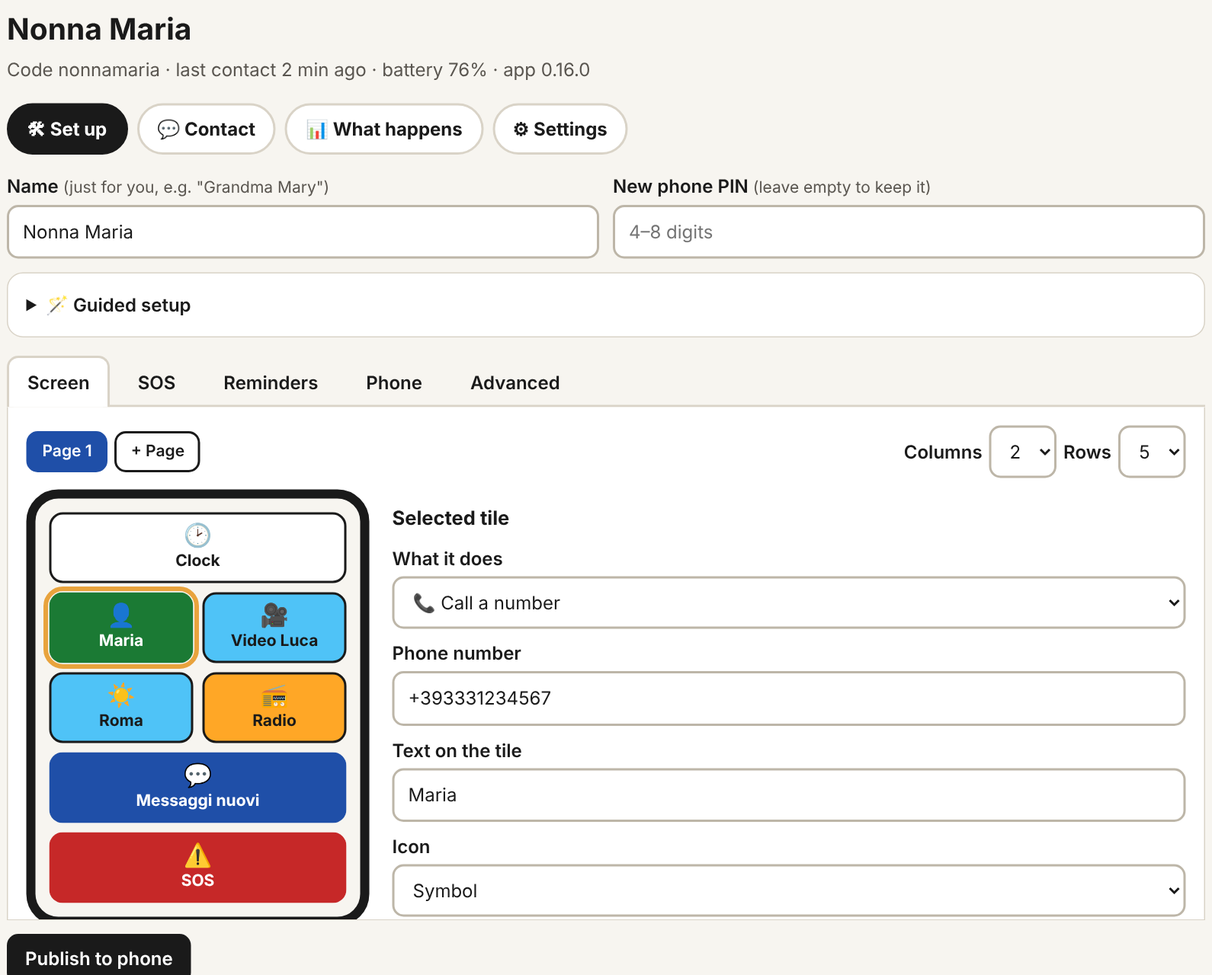
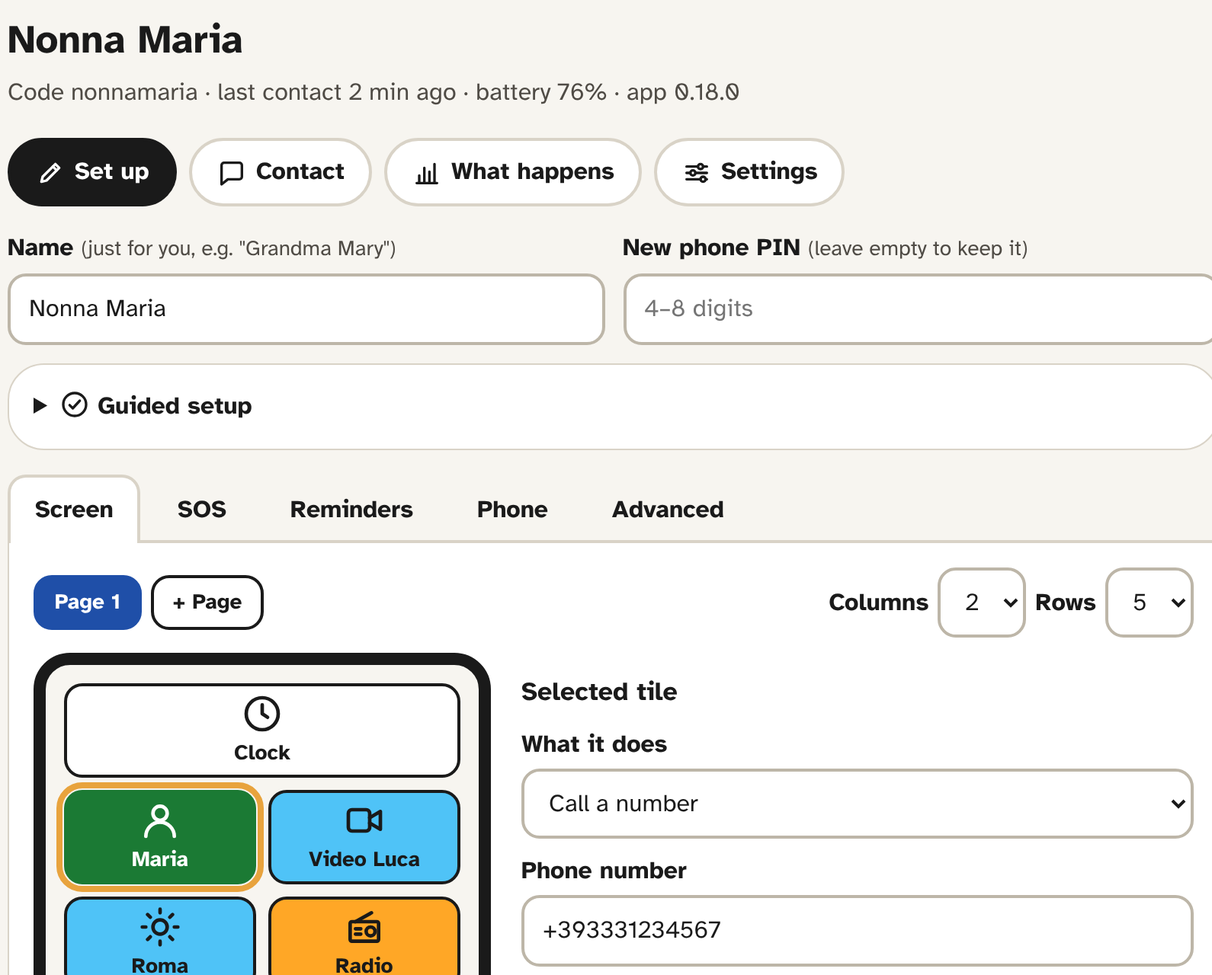
0.18.0 (wip): interlinea libera (testi grandi su due righe non si sovrappongono), simboli dell'interfaccia del portale, schermate README, novità
Claude-Session: https://claude.ai/code/session_012oE4QdTVCCNqW9X2NDMmYT

diff --git a/app/src/main/java/app/semplicephone/ui/Theme.kt b/app/src/main/java/app/semplicephone/ui/Theme.kt
@@ -77,15 +77,19 @@ val Atkinson = FontFamily(
     Font(R.font.atkinson_bold, FontWeight.Bold),
 )
 
+/**
+ * Atkinson ovunque e interlinea libera: con l'interlinea fissa di Material (24 sp) un testo ingrandito
+ * su due righe si sovrapponeva (es. il titolo di un promemoria lungo in francese).
+ */
 private fun Typography.withFamily(f: FontFamily) = Typography(
-    displayLarge = displayLarge.copy(fontFamily = f), displayMedium = displayMedium.copy(fontFamily = f),
-    displaySmall = displaySmall.copy(fontFamily = f), headlineLarge = headlineLarge.copy(fontFamily = f),
-    headlineMedium = headlineMedium.copy(fontFamily = f), headlineSmall = headlineSmall.copy(fontFamily = f),
-    titleLarge = titleLarge.copy(fontFamily = f), titleMedium = titleMedium.copy(fontFamily = f),
-    titleSmall = titleSmall.copy(fontFamily = f), bodyLarge = bodyLarge.copy(fontFamily = f),
-    bodyMedium = bodyMedium.copy(fontFamily = f), bodySmall = bodySmall.copy(fontFamily = f),
-    labelLarge = labelLarge.copy(fontFamily = f), labelMedium = labelMedium.copy(fontFamily = f),
-    labelSmall = labelSmall.copy(fontFamily = f),
+    displayLarge = displayLarge.copy(fontFamily = f, lineHeight = androidx.compose.ui.unit.TextUnit.Unspecified), displayMedium = displayMedium.copy(fontFamily = f, lineHeight = androidx.compose.ui.unit.TextUnit.Unspecified),
+    displaySmall = displaySmall.copy(fontFamily = f, lineHeight = androidx.compose.ui.unit.TextUnit.Unspecified), headlineLarge = headlineLarge.copy(fontFamily = f, lineHeight = androidx.compose.ui.unit.TextUnit.Unspecified),
+    headlineMedium = headlineMedium.copy(fontFamily = f, lineHeight = androidx.compose.ui.unit.TextUnit.Unspecified), headlineSmall = headlineSmall.copy(fontFamily = f, lineHeight = androidx.compose.ui.unit.TextUnit.Unspecified),
+    titleLarge = titleLarge.copy(fontFamily = f, lineHeight = androidx.compose.ui.unit.TextUnit.Unspecified), titleMedium = titleMedium.copy(fontFamily = f, lineHeight = androidx.compose.ui.unit.TextUnit.Unspecified),
+    titleSmall = titleSmall.copy(fontFamily = f, lineHeight = androidx.compose.ui.unit.TextUnit.Unspecified), bodyLarge = bodyLarge.copy(fontFamily = f, lineHeight = androidx.compose.ui.unit.TextUnit.Unspecified),
+    bodyMedium = bodyMedium.copy(fontFamily = f, lineHeight = androidx.compose.ui.unit.TextUnit.Unspecified), bodySmall = bodySmall.copy(fontFamily = f, lineHeight = androidx.compose.ui.unit.TextUnit.Unspecified),
+    labelLarge = labelLarge.copy(fontFamily = f, lineHeight = androidx.compose.ui.unit.TextUnit.Unspecified), labelMedium = labelMedium.copy(fontFamily = f, lineHeight = androidx.compose.ui.unit.TextUnit.Unspecified),
+    labelSmall = labelSmall.copy(fontFamily = f, lineHeight = androidx.compose.ui.unit.TextUnit.Unspecified),
 )
 
 @Composable

diff --git a/app/src/main/java/app/semplicephone/ui/Symbols.kt b/app/src/main/java/app/semplicephone/ui/Symbols.kt
@@ -86,6 +86,12 @@ object Symbols {
         "chevron" to listOf("M6 9l6 6 6-6"),
         "minus" to listOf("M5 12h14"),
         "plus" to listOf("M12 5v14M5 12h14"),
+        "bell" to listOf("M6 16v-5a6 6 0 0 1 12 0v5l2 2H4z", "M10 20.5a2 2 0 0 0 4 0", "M12 3v2"),
+        "settings" to listOf("M4 7h9M17 7h3", "M13 7a2 2 0 1 0 4 0a2 2 0 1 0-4 0", "M4 12h3M11 12h9", "M7 12a2 2 0 1 0 4 0a2 2 0 1 0-4 0", "M4 17h11M19 17h1", "M15 17a2 2 0 1 0 4 0a2 2 0 1 0-4 0"),
+        "chart" to listOf("M4 20h16", "M6 20v-6M10 20V8M14 20v-9M18 20V5"),
+        "history" to listOf("M4 12a8 8 0 1 0 2.3-5.6", "M4 4v4h4", "M12 8v4l3 2"),
+        "refresh" to listOf("M20 12a8 8 0 1 1-2.3-5.6", "M20 4v4h-4"),
+        "edit" to listOf("M5 19l1-4L16 5l3 3L9 18z", "M14 7l3 3"),
     )
 
     private val cache = mutableMapOf<String, ImageVector>()
@@ -93,7 +99,7 @@ object Symbols {
     val names: Set<String> get() = paths.keys
 
     /** Simboli dei pulsanti dell'app: non si scelgono per riquadri e promemoria. */
-    private val uiOnly = setOf("speaker", "mic", "folder", "close", "backspace", "play", "chevron", "minus", "plus", "check")
+    private val uiOnly = setOf("speaker", "mic", "folder", "close", "backspace", "play", "chevron", "minus", "plus", "check", "settings", "chart", "history", "refresh", "edit")
 
     /** Simboli da offrire nella scelta (riquadri, promemoria). */
     val pickable: List<String> get() = paths.keys.filter { it !in uiOnly }

diff --git a/app/src/main/java/app/semplicephone/ui/Big.kt b/app/src/main/java/app/semplicephone/ui/Big.kt
@@ -42,6 +42,7 @@ import androidx.compose.ui.text.style.TextAlign
 import androidx.compose.ui.unit.Dp
 import androidx.compose.ui.unit.TextUnit
 import androidx.compose.ui.unit.dp
+import androidx.compose.ui.unit.em
 import androidx.compose.ui.unit.sp
 import androidx.compose.ui.window.Dialog
 import androidx.compose.ui.window.DialogProperties
@@ -67,7 +68,7 @@ fun FitText(
 ) {
     BasicText(
         text, modifier,
-        style = TextStyle(color = color, fontFamily = Atkinson, fontWeight = if (bold) FontWeight.Bold else FontWeight.Normal, textAlign = align, lineHeight = max * 1.15f),
+        style = TextStyle(color = color, fontFamily = Atkinson, fontWeight = if (bold) FontWeight.Bold else FontWeight.Normal, textAlign = align, lineHeight = 1.15.em),
         maxLines = maxLines,
         autoSize = TextAutoSize.StepBased(minFontSize = min, maxFontSize = max, stepSize = 1.sp),
     )

diff --git a/app/src/main/java/app/semplicephone/ui/SymbolDrawables.kt b/app/src/main/java/app/semplicephone/ui/SymbolDrawables.kt
@@ -71,6 +71,12 @@ object SymbolDrawables {
         "chevron" to R.drawable.sym_chevron,
         "minus" to R.drawable.sym_minus,
         "plus" to R.drawable.sym_plus,
+        "bell" to R.drawable.sym_bell,
+        "settings" to R.drawable.sym_settings,
+        "chart" to R.drawable.sym_chart,
+        "history" to R.drawable.sym_history,
+        "refresh" to R.drawable.sym_refresh,
+        "edit" to R.drawable.sym_edit,
     )
 
     fun get(name: String): Int = ids[name] ?: R.drawable.sym_grid

diff --git a/tools/remote-server/index.php b/tools/remote-server/index.php
@@ -148,6 +148,23 @@ function t(string $k, ...$a): string {
     return $s;
 }
 function th(string $k, ...$a): string { return h(t($k, ...$a)); }
+/*SYM-BEGIN*/ const SYM_UI_JSON = '["speaker","mic","folder","close","backspace","play","chevron","minus","plus","check","settings","chart","history","refresh","edit"]'; const SYM_JSON = '{"phone":["M5 4h4l2 5-2.5 1.5a11 11 0 0 0 5 5L15 13l5 2v4a2 2 0 0 1-2 2A16 16 0 0 1 3 6a2 2 0 0 1 2-2"],"message":["M6 4h12a2 2 0 0 1 2 2v9a2 2 0 0 1-2 2H9l-5 4V6a2 2 0 0 1 2-2z"],"video":["M5 6h8a2 2 0 0 1 2 2v8a2 2 0 0 1-2 2H5a2 2 0 0 1-2-2V8a2 2 0 0 1 2-2z","M15 10.5l6-3.5v10l-6-3.5"],"photo":["M5 4h14a2 2 0 0 1 2 2v12a2 2 0 0 1-2 2H5a2 2 0 0 1-2-2V6a2 2 0 0 1 2-2z","M7 10a2 2 0 1 0 4 0a2 2 0 1 0-4 0","M21 16l-5-5-9 9"],"camera":["M4 8h3l2-3h6l2 3h3a1 1 0 0 1 1 1v9a1 1 0 0 1-1 1H4a1 1 0 0 1-1-1V9a1 1 0 0 1 1-1z","M8.5 13a3.5 3.5 0 1 0 7 0a3.5 3.5 0 1 0-7 0"],"weather":["M8 12a4 4 0 1 0 8 0a4 4 0 1 0-8 0","M12 2v2M12 20v2M2 12h2M20 12h2M5 5l1.5 1.5M17.5 17.5L19 19M5 19l1.5-1.5M17.5 6.5L19 5"],"web":["M3 12a9 9 0 1 0 18 0a9 9 0 1 0-18 0","M3 12h18","M12 3a14 14 0 0 1 0 18a14 14 0 0 1 0-18"],"person":["M8 8a4 4 0 1 0 8 0a4 4 0 1 0-8 0","M4 21a8 8 0 0 1 16 0"],"alert":["M12 3.5l9 16.5H3z","M12 10v4.5","M12 17.5v.5"],"pill":["M5.1 12.9l7.8-7.8a4.2 4.2 0 0 1 6 6l-7.8 7.8a4.2 4.2 0 0 1-6-6z","M9 9l6 6"],"home":["M3 11l9-7 9 7","M5 10v10h14V10","M10 20v-6h4v6"],"heart":["M12 20s-8-4.9-8-11a4.5 4.5 0 0 1 8-2.8A4.5 4.5 0 0 1 20 9c0 6.1-8 11-8 11z"],"music":["M9 18V6l10-2v12","M5 18a2 2 0 1 0 4 0a2 2 0 1 0-4 0","M15 16a2 2 0 1 0 4 0a2 2 0 1 0-4 0"],"radio":["M5 9h14a1 1 0 0 1 1 1v9a1 1 0 0 1-1 1H5a1 1 0 0 1-1-1v-9a1 1 0 0 1 1-1","M7 9L16 4","M13 14.5a2.5 2.5 0 1 0 5 0a2.5 2.5 0 1 0-5 0","M7 13h3M7 16h3"],"grid":["M4 5a1 1 0 0 1 1-1h4a1 1 0 0 1 1 1v4a1 1 0 0 1-1 1H5a1 1 0 0 1-1-1z","M14 5a1 1 0 0 1 1-1h4a1 1 0 0 1 1 1v4a1 1 0 0 1-1 1h-4a1 1 0 0 1-1-1z","M4 15a1 1 0 0 1 1-1h4a1 1 0 0 1 1 1v4a1 1 0 0 1-1 1H5a1 1 0 0 1-1-1z","M14 15a1 1 0 0 1 1-1h4a1 1 0 0 1 1 1v4a1 1 0 0 1-1 1h-4a1 1 0 0 1-1-1z"],"shower":["M5.5 21V7a3 3 0 0 1 3-3h3a3 3 0 0 1 3 3","M10.5 11a4 4 0 0 1 8 0z","M12 14.5v1.5M17 14.5v1.5M14.5 14.5v1.5M13 19v1M16 19v1"],"cart":["M3 4h2l2.5 11h10L20 7H6","M9 19.5a1 1 0 1 0 2 0a1 1 0 1 0-2 0","M16 19.5a1 1 0 1 0 2 0a1 1 0 1 0-2 0"],"doctor":["M5 4v6a4 4 0 0 0 8 0V4","M4 4h2M12 4h2","M9 14v2a4 4 0 0 0 8 0v-1","M15 13a2 2 0 1 0 4 0a2 2 0 1 0-4 0"],"cards":["M5 9a2 2 0 0 1 2-2h6a2 2 0 0 1 2 2v10a2 2 0 0 1-2 2H7a2 2 0 0 1-2-2z","M9 7V5a2 2 0 0 1 2-2h6a2 2 0 0 1 2 2v10a2 2 0 0 1-2 2h-2"],"calendar":["M6 5h12a2 2 0 0 1 2 2v12a2 2 0 0 1-2 2H6a2 2 0 0 1-2-2V7a2 2 0 0 1 2-2z","M4 10h16","M8 3v4M16 3v4","M8 14h.01M12 14h.01M16 14h.01M8 17.5h.01M12 17.5h.01"],"walk":["M11.25 4.5a1.75 1.75 0 1 0 3.5 0a1.75 1.75 0 1 0-3.5 0","M12.5 8.5L11 14","M11 14l-2.5 3.5L7 21","M11 14l3 3 .5 4","M12.5 8.5L9.5 10l-1 3","M12.5 8.5l2 3 2.5 1"],"food":["M4.5 3v5a3.5 3.5 0 0 0 7 0V3","M8 3v18","M19.5 14V3a4 4 0 0 0-4 4v5a2 2 0 0 0 2 2h2z","M19.5 14v7"],"bed":["M3 5v14","M3 15h18v4","M21 15v-3a3 3 0 0 0-3-3h-7v6","M5.5 11.5a1.5 1.5 0 1 0 3 0a1.5 1.5 0 1 0-3 0"],"water":["M6 4h12l-1.5 16h-9z","M7 9h10"],"cloud":["M7 18h10a4 4 0 0 0 0-8a5.5 5.5 0 0 0-10.6 1.5A3.3 3.3 0 0 0 7 18z"],"rain":["M7 14h10a4 4 0 0 0 0-8a5.5 5.5 0 0 0-10.6 1.5A3.3 3.3 0 0 0 7 14z","M8 17l-1 3M12 17l-1 3M16 17l-1 3"],"snow":["M7 14h10a4 4 0 0 0 0-8a5.5 5.5 0 0 0-10.6 1.5A3.3 3.3 0 0 0 7 14z","M8 18h.01M12 18h.01M16 18h.01M10 21h.01M14 21h.01"],"storm":["M7 14h10a4 4 0 0 0 0-8a5.5 5.5 0 0 0-10.6 1.5A3.3 3.3 0 0 0 7 14z","M12 14l-2 4h4l-2 4"],"fog":["M4 8h16M6 12h12M4 16h16"],"missed":["M5 4h4l2 5-2.5 1.5a11 11 0 0 0 5 5L15 13l5 2v4a2 2 0 0 1-2 2A16 16 0 0 1 3 6a2 2 0 0 1 2-2","M16 3l5 5M21 3l-5 5"],"battery":["M4.5 6h12a2 2 0 0 1 2 2v8a2 2 0 0 1-2 2h-12a2 2 0 0 1-2-2V8a2 2 0 0 1 2-2z","M21.5 10v4","M12 9.5L9.5 12H13l-2.5 3"],"search":["M4 10a6 6 0 1 0 12 0a6 6 0 1 0-12 0","M14.5 14.5L20 20"],"torch":["M7 3h10v3l-3 4v11h-4V10L7 6z","M7 6h10","M12 13v2"],"magnifier":["M3 10a7 7 0 1 0 14 0a7 7 0 1 0-14 0","M15 15l6 6","M10 7v6M7 10h6"],"pin":["M12 21s-7-6.2-7-11a7 7 0 0 1 14 0c0 4.8-7 11-7 11z","M9.5 10a2.5 2.5 0 1 0 5 0a2.5 2.5 0 1 0-5 0"],"news":["M4 5h13v14H6a2 2 0 0 1-2-2z","M17 9h3v8a2 2 0 0 1-2 2","M7 8h7M7 11h7M7 14h4"],"callme":["M5 4h4l2 5-2.5 1.5a11 11 0 0 0 5 5L15 13l5 2v4a2 2 0 0 1-2 2A16 16 0 0 1 3 6a2 2 0 0 1 2-2","M21 3l-6 6","M15 4v5h5"],"check":["M3 12a9 9 0 1 0 18 0a9 9 0 1 0-18 0","M8 12.5l2.5 2.5 5.5-6"],"clock":["M3 12a9 9 0 1 0 18 0a9 9 0 1 0-18 0","M12 7v5l3 2"],"car":["M6.5 10l1.5-4h8l1.5 4","M5 10h14a2 2 0 0 1 2 2v4a1 1 0 0 1-1 1H4a1 1 0 0 1-1-1v-4a2 2 0 0 1 2-2z","M7 13.5h.01M17 13.5h.01","M5.5 17v2M18.5 17v2"],"bus":["M6 3h12a2 2 0 0 1 2 2v12H4V5a2 2 0 0 1 2-2z","M4 11h16","M7 17v3M17 17v3","M8 14h.01M16 14h.01"],"key":["M4 16a4 4 0 1 0 8 0a4 4 0 1 0-8 0","M10.8 13.2L20 4","M17 7l2.5 2.5M14.5 9.5l2 2"],"glasses":["M3 13.5a3.5 3.5 0 1 0 7 0a3.5 3.5 0 1 0-7 0","M14 13.5a3.5 3.5 0 1 0 7 0a3.5 3.5 0 1 0-7 0","M10 13a2 2 0 0 1 4 0","M3.5 12L5 6.5M20.5 12L19 6.5"],"paw":["M8.5 16.5c0-2.5 1.6-4.5 3.5-4.5s3.5 2 3.5 4.5c0 2-1.6 3-3.5 3s-3.5-1-3.5-3z","M4.5 11a1.5 1.5 0 1 0 3 0a1.5 1.5 0 1 0-3 0","M8 6.5a1.5 1.5 0 1 0 3 0a1.5 1.5 0 1 0-3 0","M13 6.5a1.5 1.5 0 1 0 3 0a1.5 1.5 0 1 0-3 0","M16.5 11a1.5 1.5 0 1 0 3 0a1.5 1.5 0 1 0-3 0"],"plant":["M7 14h10l-1.5 7h-7z","M12 14V8","M12 10C9 10 7 8 7 5c3 0 5 2 5 5z","M12 8c0-3 2-5 5-5 0 3-2 5-5 5z"],"tooth":["M7 3C4.5 3 3 5 3 7.5c0 3 1.5 4.5 2 7l1 5c.3 1.3 2 1.3 2.3 0l1.2-4.5c.3-1 2.7-1 3 0l1.2 4.5c.3 1.3 2 1.3 2.3 0l1-5c.5-2.5 2-4 2-7C21 5 19.5 3 17 3c-2 0-3 1-5 1S9 3 7 3z"],"cake":["M5 21v-7a1 1 0 0 1 1-1h12a1 1 0 0 1 1 1v7","M3 21h18","M12 13V9","M12 6.5c-.8-.8-.8-2 0-3 .8 1 .8 2.2 0 3z","M5 16.5c1.2 0 1.2 1 2.3 1s1.2-1 2.3-1 1.2 1 2.4 1 1.2-1 2.3-1 1.2 1 2.3 1 1.2-1 2.4-1"],"trash":["M4 7h16","M9 7V4h6v3","M6 7l1 13h10l1-13","M10 11v6M14 11v6"],"wallet":["M4 7a2 2 0 0 1 2-2h11v4","M4 7v11a2 2 0 0 0 2 2h14V9H6a2 2 0 0 1-2-2z","M16 14.5h.01"],"book":["M12 6.5C10 5 7 4.5 3 5v14c4-.5 7 0 9 1.5 2-1.5 5-2 9-1.5V5c-4-.5-7 0-9 1.5z","M12 6.5v14"],"tv":["M5 7h14a2 2 0 0 1 2 2v9a2 2 0 0 1-2 2H5a2 2 0 0 1-2-2V9a2 2 0 0 1 2-2z","M8 3l4 4 4-4"],"mail":["M5 5h14a2 2 0 0 1 2 2v10a2 2 0 0 1-2 2H5a2 2 0 0 1-2-2V7a2 2 0 0 1 2-2z","M3.5 7l8.5 6 8.5-6"],"thermometer":["M10 14.5V5a2 2 0 0 1 4 0v9.5a4 4 0 1 1-4 0z","M12 9v8"],"syringe":["M16 5l3 3-9 9-3-3z","M14 3l7 7","M8.5 15.5L3 21","M12.5 9.5l2 2"],"family":["M5 8.5a3 3 0 1 0 6 0a3 3 0 1 0-6 0","M2.5 20a5.5 5.5 0 0 1 11 0","M14 9.5a2.5 2.5 0 1 0 5 0a2.5 2.5 0 1 0-5 0","M15 14.7a4.5 4.5 0 0 1 6.5 4v1.3"],"moon":["M20 14.5A8 8 0 1 1 9.5 4a6.5 6.5 0 0 0 10.5 10.5z"],"speaker":["M4 9h3l5-4v14l-5-4H4z","M15.5 9a4 4 0 0 1 0 6","M18 6.5a7.5 7.5 0 0 1 0 11"],"mic":["M9 6a3 3 0 0 1 6 0v5a3 3 0 0 1-6 0z","M5.5 11a6.5 6.5 0 0 0 13 0","M12 17.5V21","M9 21h6"],"folder":["M3 7a2 2 0 0 1 2-2h4l2 2h8a2 2 0 0 1 2 2v8a2 2 0 0 1-2 2H5a2 2 0 0 1-2-2z"],"close":["M6 6l12 12M18 6L6 18"],"backspace":["M8 5h11a2 2 0 0 1 2 2v10a2 2 0 0 1-2 2H8l-6-7z","M11 9l6 6M17 9l-6 6"],"play":["M6 4.5v15L19 12z"],"chevron":["M6 9l6 6 6-6"],"minus":["M5 12h14"],"plus":["M12 5v14M5 12h14"],"bell":["M6 16v-5a6 6 0 0 1 12 0v5l2 2H4z","M10 20.5a2 2 0 0 0 4 0","M12 3v2"],"settings":["M4 7h9M17 7h3","M13 7a2 2 0 1 0 4 0a2 2 0 1 0-4 0","M4 12h3M11 12h9","M7 12a2 2 0 1 0 4 0a2 2 0 1 0-4 0","M4 17h11M19 17h1","M15 17a2 2 0 1 0 4 0a2 2 0 1 0-4 0"],"chart":["M4 20h16","M6 20v-6M10 20V8M14 20v-9M18 20V5"],"history":["M4 12a8 8 0 1 0 2.3-5.6","M4 4v4h4","M12 8v4l3 2"],"refresh":["M20 12a8 8 0 1 1-2.3-5.6","M20 4v4h-4"],"edit":["M5 19l1-4L16 5l3 3L9 18z","M14 7l3 3"]}'; /*SYM-END*/
+/** Simbolo dell'app come SVG in linea (stessi tracciati del telefono, da tools/symbols/gen.py). */
+function sym_svg(string $name, string $cls = 'sym'): string {
+    static $all = null;
+    $all ??= json_decode(SYM_JSON, true) ?: [];
+    $paths = $all[$name] ?? $all['grid'] ?? [];
+    return '<svg class="' . h($cls) . '" viewBox="0 0 24 24" aria-hidden="true">' . implode('', array_map(fn($d) => '<path d="' . h($d) . '"/>', $paths)) . '</svg>';
+}
+/** Simbolo di ogni tipo di avviso, per le pagine del portale (email e Telegram restano con le emoji). */
+const EV_SYM = ['sos' => 'alert', 'fall' => 'alert', 'reminder_missed' => 'pill', 'pills_low' => 'pill', 'battery' => 'battery', 'offline' => 'web', 'online' => 'check',
+    'test' => 'bell', 'call_blocked' => 'phone', 'call_out_blocked' => 'phone', 'long_call' => 'phone', 'sim_changed' => 'phone', 'location' => 'pin', 'zone_left' => 'pin',
+    'zone_back' => 'home', 'ring_done' => 'bell', 'message_read' => 'message', 'remote_app' => 'alert', 'scam_message' => 'alert', 'inactive' => 'moon',
+    'active_again' => 'check', 'heat' => 'thermometer', 'call_me' => 'callme', 'voice_reply' => 'mic'];
+/** Toglie le emoji in testa a un titolo (per le pagine, dove c'è il simbolo). */
+function no_emoji(string $s): string { return preg_replace('/^[\p{So}\p{Sk}\x{FE0F}\x{200D}\x{2190}-\x{21FF}\x{2300}-\x{23FF}\s]+/u', '', $s) ?? $s; }
+/** Titolo dell'avviso per le pagine: simbolo + testo senza emoji. */
+function ev_title_html(string $type): string { return sym_svg(EV_SYM[$type] ?? 'bell') . ' ' . h(no_emoji(ev_title($type))); }
 function ev_title(string $type): string { return in_array($type, EVENT_TYPES, true) ? t('ev_' . $type) : $type; }
 /**
  * Testo di un avviso nella lingua del portale. I telefoni dalla 0.17.2 mandano «key» (nome della
@@ -1279,14 +1296,14 @@ details summary{cursor:pointer;font-weight:600}
 
   <?php if ($loaded): ?><div class="msg warn"><?= h($loaded) ?></div><?php endif; ?>
   <?php $lastV = history($edit)[0] ?? null; $lastH = $lastV ? read_json(DATA . "/history/$edit/$lastV.json", []) : [];
-    if (!$loaded && ($lastH['source'] ?? '') === 'phone'): ?><p class="hint">📱 <?= th('phone_changed_info', date('d/m/Y H:i', (int)($lastH['at'] ?? 0)), implode('; ', (array)($lastH['changes'] ?? []))) ?></p><?php endif; ?>
+    if (!$loaded && ($lastH['source'] ?? '') === 'phone'): ?><p class="hint"><?= sym_svg('phone') ?> <?= th('phone_changed_info', date('d/m/Y H:i', (int)($lastH['at'] ?? 0)), implode('; ', (array)($lastH['changes'] ?? []))) ?></p><?php endif; ?>
   <?php if (isset($meta['badgesAccess']) && !$meta['badgesAccess']): ?><div class="msg warn"><?= th('no_notif_access') ?></div><?php endif; ?>
   <?php foreach (access_warnings($meta) as $w): ?><div class="msg warn"><?= h($w) ?></div><?php endforeach; ?>
   <div class="pagetabs">
-    <button type="button" data-ptab="p-config">🛠 <?= th('ptab_config') ?></button>
-    <button type="button" data-ptab="p-talk">💬 <?= th('ptab_talk') ?></button>
-    <button type="button" data-ptab="p-status">📊 <?= th('ptab_status') ?></button>
-    <button type="button" data-ptab="p-settings">⚙ <?= th('ptab_settings') ?></button>
+    <button type="button" data-ptab="p-config"><?= sym_svg('edit') ?> <?= th('ptab_config') ?></button>
+    <button type="button" data-ptab="p-talk"><?= sym_svg('message') ?> <?= th('ptab_talk') ?></button>
+    <button type="button" data-ptab="p-status"><?= sym_svg('chart') ?> <?= th('ptab_status') ?></button>
+    <button type="button" data-ptab="p-settings"><?= sym_svg('settings') ?> <?= th('ptab_settings') ?></button>
   </div>
   <section class="pagepanel" id="p-config">
   <?php $lastLocPre = null; foreach ($urgent as $ev) if (isset($ev['lat'], $ev['lon']) && $ev['lat'] !== null) { $lastLocPre = ['lat' => (float)$ev['lat'], 'lon' => (float)$ev['lon']]; break; } ?>
@@ -1297,7 +1314,7 @@ details summary{cursor:pointer;font-weight:600}
       <div><label for="pin"><?= th('new_pin') ?> <span class="hint"><?= th('new_pin_hint') ?></span></label><input id="pin" type="text" name="pin" inputmode="numeric" pattern="\d{4,8}" autocomplete="off" placeholder="<?= th('pin_placeholder') ?>"></div>
     </div>
 
-    <details class="card" id="wizard" <?= history($edit) ? '' : 'open' ?>><summary><?= th('wiz_title') ?></summary><div id="wizbody"></div></details>
+    <details class="card" id="wizard" <?= history($edit) ? '' : 'open' ?>><summary><?= sym_svg('check') ?> <?= th('wiz_title') ?></summary><div id="wizbody"></div></details>
     <div class="msg warn" id="warns" hidden></div>
     <div class="tabs" role="tablist">
       <button type="button" role="tab" aria-selected="true" data-tab="t-screen"><?= th('tab_screen') ?></button>
@@ -1337,7 +1354,7 @@ details summary{cursor:pointer;font-weight:600}
   ?>
   </section>
   <section class="pagepanel" id="p-talk" hidden>
-  <h2 id="where">📍 <?= th('locate_title') ?></h2>
+  <h2 id="where"><?= sym_svg('pin') ?> <?= th('locate_title') ?></h2>
   <div class="card">
     <?php if ($lastLoc): $la = $lastLoc['lat'] ?? null; $lo = $lastLoc['lon'] ?? null; ?>
       <p><b><?= th('locate_last', date('d/m H:i', (int)(($lastLoc['at'] ?? 0) / 1000))) ?></b>
@@ -1352,7 +1369,7 @@ details summary{cursor:pointer;font-weight:600}
 
   <?php $fm = $meta['message'] ?? null; $ringing = time() - (int)($meta['ringRequest'] ?? 0) < 3600;
     $oldApp = !empty($meta['appVersion']) && version_compare((string)$meta['appVersion'], APP_FEATURES_0130, '<'); ?>
-  <h2 id="family"><?= th('family_title') ?></h2>
+  <h2 id="family"><?= sym_svg('message') ?> <?= th('family_title') ?></h2>
   <div class="card">
     <?php if ($oldApp): ?><p class="msg warn"><?= th('family_old_app', $meta['appVersion']) ?></p><?php endif; ?>
     <form method="post" enctype="multipart/form-data" id="msgform" data-vmax="<?= video_max() ?>"><input type="hidden" name="csrf" value="<?= h($csrf) ?>"><input type="hidden" name="act" value="message"><input type="hidden" name="id" value="<?= h($edit) ?>">
@@ -1414,15 +1431,15 @@ details summary{cursor:pointer;font-weight:600}
       });
     })();
     </script>
-    <?php if ($fm): ?><p class="hint"><?= !empty($fm['video']) ? '🎬 ' : '' ?><?= th('message_last', date('d/m H:i', (int)$fm['at']), $fm['text']) ?> —
+    <?php if ($fm): ?><p class="hint"><?= !empty($fm['video']) ? sym_svg('video') . ' ' : '' ?><?= th('message_last', date('d/m H:i', (int)$fm['at']), $fm['text']) ?> —
       <b><?= !empty($fm['readAt']) ? th('message_read_at', date('d/m H:i', (int)$fm['readAt'])) : th('message_waiting') ?></b></p><?php endif; ?>
     <hr style="border:0;border-top:1px solid #ddd;margin:16px 0">
     <form method="post"><input type="hidden" name="csrf" value="<?= h($csrf) ?>"><input type="hidden" name="act" value="ring"><input type="hidden" name="id" value="<?= h($edit) ?>">
-      <button class="sec"><?= th('ring_button') ?></button></form>
+      <button class="sec"><?= sym_svg('bell') ?> <?= th('ring_button') ?></button></form>
     <?php if ($ringing): ?><p class="msg warn"><?= th('ring_pending') ?></p><?php endif; ?>
     <p class="hint"><?= th('family_hint') ?></p>
     <?php $voices = array_reverse(glob(DATA . "/voice/$edit/*.m4a") ?: []); if ($voices): ?>
-      <h3 style="margin-top:18px">🎤 <?= th('voice_replies') ?></h3>
+      <h3 style="margin-top:18px"><?= sym_svg('mic') ?> <?= th('voice_replies') ?></h3>
       <?php foreach (array_slice($voices, 0, 10) as $vf): $vn = basename($vf); ?>
         <div style="display:flex;gap:12px;align-items:center;flex-wrap:wrap;margin:8px 0">
           <span class="hint" style="min-width:110px"><?= h(date('d/m H:i', (int)$vn)) ?></span>
@@ -1434,19 +1451,19 @@ details summary{cursor:pointer;font-weight:600}
 
   </section>
   <section class="pagepanel" id="p-status" hidden>
-  <h2>📊 <?= th('weekly_card') ?></h2>
+  <h2><?= sym_svg('chart') ?> <?= th('weekly_card') ?></h2>
   <div class="card"><ul style="margin:0;padding-left:20px"><?php foreach (weekly_lines($edit) as $l): ?><li><?= h($l) ?></li><?php endforeach; ?></ul></div>
 
-  <h2>🔔 <?= th('alerts_from_phone') ?></h2>
+  <h2><?= sym_svg('bell') ?> <?= th('alerts_from_phone') ?></h2>
   <div class="card">
   <?php if (!$urgent): ?><p class="hint"><?= th('no_alerts_received') ?></p><?php else: ?>
     <table><tr><th><?= th('col_when') ?></th><th><?= th('col_what') ?></th></tr>
-    <?php foreach ($urgent as $ev): ?><tr><td><?= h(date('d/m H:i', (int)(($ev['at'] ?? 0) / 1000))) ?></td><td><b><?= h(ev_title((string)($ev['type'] ?? ''))) ?></b><br><span class="hint"><?= nl2br(h(ev_text($ev))) ?></span></td></tr><?php endforeach; ?>
+    <?php foreach ($urgent as $ev): ?><tr><td><?= h(date('d/m H:i', (int)(($ev['at'] ?? 0) / 1000))) ?></td><td><b><?= ev_title_html((string)($ev['type'] ?? '')) ?></b><br><span class="hint"><?= nl2br(h(ev_text($ev))) ?></span></td></tr><?php endforeach; ?>
     </table>
   <?php endif; ?>
   </div>
 
-  <h2>💊 <?= th('rem_what_happened') ?></h2>
+  <h2><?= sym_svg('pill') ?> <?= th('rem_what_happened') ?></h2>
   <div class="card">
   <?php if (!$events): ?><p class="hint"><?= th('no_news') ?></p><?php else: ?>
     <table><tr><th><?= th('col_when') ?></th><th><?= th('col_reminder') ?></th><th><?= th('col_result') ?></th></tr>
@@ -1458,7 +1475,7 @@ details summary{cursor:pointer;font-weight:600}
 
   </section>
   <section class="pagepanel" id="p-settings" hidden>
-  <h2>🕘 <?= th('prev_versions') ?></h2>
+  <h2><?= sym_svg('history') ?> <?= th('prev_versions') ?></h2>
   <div class="card">
   <?php if (!$versions): ?><p class="hint"><?= th('no_publications') ?></p><?php else: ?>
     <table><tr><th><?= th('col_published') ?></th><th></th></tr>
@@ -1477,7 +1494,7 @@ details summary{cursor:pointer;font-weight:600}
   <?php endif; ?>
   </div>
 
-  <h2>📱 <?= th('installed_apps') ?></h2>
+  <h2><?= sym_svg('grid') ?> <?= th('installed_apps') ?></h2>
   <div class="card">
   <?php if (!$devApps): ?>
     <p class="hint"><?= th('apps_not_received') ?></p>
@@ -1490,7 +1507,7 @@ details summary{cursor:pointer;font-weight:600}
   <?php endif; ?>
   </div>
 
-  <details class="card" id="calendar" <?= !empty($meta['calendarUrl']) ? 'open' : '' ?>><summary><?= th('cal_title') ?></summary>
+  <details class="card" id="calendar" <?= !empty($meta['calendarUrl']) ? 'open' : '' ?>><summary><?= sym_svg('calendar') ?> <?= th('cal_title') ?></summary>
     <p class="hint"><?= th('cal_hint') ?></p>
     <form method="post"><input type="hidden" name="csrf" value="<?= h($csrf) ?>"><input type="hidden" name="act" value="calendar"><input type="hidden" name="id" value="<?= h($edit) ?>">
       <label for="calurl"><?= th('cal_url') ?></label><input id="calurl" type="url" name="calendarUrl" value="<?= h($meta['calendarUrl'] ?? '') ?>" placeholder="https://calendar.google.com/calendar/ical/…/basic.ics">
@@ -1500,7 +1517,7 @@ details summary{cursor:pointer;font-weight:600}
       <p><button><?= th('cal_save') ?></button></p></form>
     <?php if (!empty($meta['calendarUrl'])): ?><p class="hint"><?= !empty($meta['calendarError']) ? '<span class="pill bad">' . th('cal_error') . '</span>' : th('cal_status', (int)($meta['calendarCount'] ?? 0), ago(isset($meta['calendarAt']) ? (int)$meta['calendarAt'] : null)) ?></p><?php endif; ?>
   </details>
-  <details class="card" id="alertlang"><summary>🌐 <?= th('alert_lang_title') ?></summary>
+  <details class="card" id="alertlang"><summary><?= sym_svg('web') ?> <?= th('alert_lang_title') ?></summary>
     <p class="hint"><?= th('alert_lang_hint') ?></p>
     <form method="post"><input type="hidden" name="csrf" value="<?= h($csrf) ?>"><input type="hidden" name="act" value="alertlang"><input type="hidden" name="id" value="<?= h($edit) ?>">
       <?php $al = (string)($meta['alertLang'] ?? ''); $pl = (string)($meta['lang'] ?? ''); ?>
@@ -1509,12 +1526,12 @@ details summary{cursor:pointer;font-weight:600}
         <?php foreach (langs() as $l): ?><option value="<?= $l ?>" <?= $al === $l ? 'selected' : '' ?>><?= h(lang_table($l)['lang_name'] ?? $l) ?></option><?php endforeach; ?></select></div></div>
       <p><button><?= th('alert_lang_save') ?></button></p></form>
   </details>
-  <details class="card"><summary>🔄 <?= th('reinstalled') ?></summary>
+  <details class="card"><summary><?= sym_svg('refresh') ?> <?= th('reinstalled') ?></summary>
     <p><?= th('reinstalled_text') ?></p>
     <form method="post"><input type="hidden" name="csrf" value="<?= h($csrf) ?>"><input type="hidden" name="act" value="forget"><input type="hidden" name="id" value="<?= h($edit) ?>">
       <button class="danger"><?= th('accept_next') ?></button></form>
   </details>
-  <details class="card"><summary>⚙ <?= th('other_actions') ?></summary>
+  <details class="card"><summary><?= sym_svg('settings') ?> <?= th('other_actions') ?></summary>
     <form method="post" style="margin:10px 0"><input type="hidden" name="csrf" value="<?= h($csrf) ?>"><input type="hidden" name="act" value="ignore"><input type="hidden" name="id" value="<?= h($edit) ?>">
       <button class="sec"><?= th(empty($meta['ignoreOffline']) ? 'ignore_offline' : 'unignore_offline') ?></button></form>
     <form method="post" id="delform"><input type="hidden" name="csrf" value="<?= h($csrf) ?>"><input type="hidden" name="act" value="delete"><input type="hidden" name="id" value="<?= h($edit) ?>">
@@ -1567,10 +1584,10 @@ document.querySelectorAll('[data-copy]').forEach(b => b.addEventListener('click'
   const typeColor = k => TYPE_COLOR[k] || '#1F4FA8';
   const OLD_COLORS = {'#0B6E4F': '#1B7A34', '#00695C': '#4FC3F7', '#B71C1C': '#C62828', '#A84300': '#FFA726', '#FFF3C4': '#FFD54F', '#FFE7A8': '#FFD54F',
     '#37474F': '#1A1A1A', '#0277BD': '#4FC3F7'};
-  /*SYM-BEGIN*/ const SYM_PATHS = {"phone":["M5 4h4l2 5-2.5 1.5a11 11 0 0 0 5 5L15 13l5 2v4a2 2 0 0 1-2 2A16 16 0 0 1 3 6a2 2 0 0 1 2-2"],"message":["M6 4h12a2 2 0 0 1 2 2v9a2 2 0 0 1-2 2H9l-5 4V6a2 2 0 0 1 2-2z"],"video":["M5 6h8a2 2 0 0 1 2 2v8a2 2 0 0 1-2 2H5a2 2 0 0 1-2-2V8a2 2 0 0 1 2-2z","M15 10.5l6-3.5v10l-6-3.5"],"photo":["M5 4h14a2 2 0 0 1 2 2v12a2 2 0 0 1-2 2H5a2 2 0 0 1-2-2V6a2 2 0 0 1 2-2z","M7 10a2 2 0 1 0 4 0a2 2 0 1 0-4 0","M21 16l-5-5-9 9"],"camera":["M4 8h3l2-3h6l2 3h3a1 1 0 0 1 1 1v9a1 1 0 0 1-1 1H4a1 1 0 0 1-1-1V9a1 1 0 0 1 1-1z","M8.5 13a3.5 3.5 0 1 0 7 0a3.5 3.5 0 1 0-7 0"],"weather":["M8 12a4 4 0 1 0 8 0a4 4 0 1 0-8 0","M12 2v2M12 20v2M2 12h2M20 12h2M5 5l1.5 1.5M17.5 17.5L19 19M5 19l1.5-1.5M17.5 6.5L19 5"],"web":["M3 12a9 9 0 1 0 18 0a9 9 0 1 0-18 0","M3 12h18","M12 3a14 14 0 0 1 0 18a14 14 0 0 1 0-18"],"person":["M8 8a4 4 0 1 0 8 0a4 4 0 1 0-8 0","M4 21a8 8 0 0 1 16 0"],"alert":["M12 3.5l9 16.5H3z","M12 10v4.5","M12 17.5v.5"],"pill":["M5.1 12.9l7.8-7.8a4.2 4.2 0 0 1 6 6l-7.8 7.8a4.2 4.2 0 0 1-6-6z","M9 9l6 6"],"home":["M3 11l9-7 9 7","M5 10v10h14V10","M10 20v-6h4v6"],"heart":["M12 20s-8-4.9-8-11a4.5 4.5 0 0 1 8-2.8A4.5 4.5 0 0 1 20 9c0 6.1-8 11-8 11z"],"music":["M9 18V6l10-2v12","M5 18a2 2 0 1 0 4 0a2 2 0 1 0-4 0","M15 16a2 2 0 1 0 4 0a2 2 0 1 0-4 0"],"radio":["M5 9h14a1 1 0 0 1 1 1v9a1 1 0 0 1-1 1H5a1 1 0 0 1-1-1v-9a1 1 0 0 1 1-1","M7 9L16 4","M13 14.5a2.5 2.5 0 1 0 5 0a2.5 2.5 0 1 0-5 0","M7 13h3M7 16h3"],"grid":["M4 5a1 1 0 0 1 1-1h4a1 1 0 0 1 1 1v4a1 1 0 0 1-1 1H5a1 1 0 0 1-1-1z","M14 5a1 1 0 0 1 1-1h4a1 1 0 0 1 1 1v4a1 1 0 0 1-1 1h-4a1 1 0 0 1-1-1z","M4 15a1 1 0 0 1 1-1h4a1 1 0 0 1 1 1v4a1 1 0 0 1-1 1H5a1 1 0 0 1-1-1z","M14 15a1 1 0 0 1 1-1h4a1 1 0 0 1 1 1v4a1 1 0 0 1-1 1h-4a1 1 0 0 1-1-1z"],"shower":["M5.5 21V7a3 3 0 0 1 3-3h3a3 3 0 0 1 3 3","M10.5 11a4 4 0 0 1 8 0z","M12 14.5v1.5M17 14.5v1.5M14.5 14.5v1.5M13 19v1M16 19v1"],"cart":["M3 4h2l2.5 11h10L20 7H6","M9 19.5a1 1 0 1 0 2 0a1 1 0 1 0-2 0","M16 19.5a1 1 0 1 0 2 0a1 1 0 1 0-2 0"],"doctor":["M5 4v6a4 4 0 0 0 8 0V4","M4 4h2M12 4h2","M9 14v2a4 4 0 0 0 8 0v-1","M15 13a2 2 0 1 0 4 0a2 2 0 1 0-4 0"],"cards":["M5 9a2 2 0 0 1 2-2h6a2 2 0 0 1 2 2v10a2 2 0 0 1-2 2H7a2 2 0 0 1-2-2z","M9 7V5a2 2 0 0 1 2-2h6a2 2 0 0 1 2 2v10a2 2 0 0 1-2 2h-2"],"calendar":["M6 5h12a2 2 0 0 1 2 2v12a2 2 0 0 1-2 2H6a2 2 0 0 1-2-2V7a2 2 0 0 1 2-2z","M4 10h16","M8 3v4M16 3v4","M8 14h.01M12 14h.01M16 14h.01M8 17.5h.01M12 17.5h.01"],"walk":["M11.25 4.5a1.75 1.75 0 1 0 3.5 0a1.75 1.75 0 1 0-3.5 0","M12.5 8.5L11 14","M11 14l-2.5 3.5L7 21","M11 14l3 3 .5 4","M12.5 8.5L9.5 10l-1 3","M12.5 8.5l2 3 2.5 1"],"food":["M4.5 3v5a3.5 3.5 0 0 0 7 0V3","M8 3v18","M19.5 14V3a4 4 0 0 0-4 4v5a2 2 0 0 0 2 2h2z","M19.5 14v7"],"bed":["M3 5v14","M3 15h18v4","M21 15v-3a3 3 0 0 0-3-3h-7v6","M5.5 11.5a1.5 1.5 0 1 0 3 0a1.5 1.5 0 1 0-3 0"],"water":["M6 4h12l-1.5 16h-9z","M7 9h10"],"cloud":["M7 18h10a4 4 0 0 0 0-8a5.5 5.5 0 0 0-10.6 1.5A3.3 3.3 0 0 0 7 18z"],"rain":["M7 14h10a4 4 0 0 0 0-8a5.5 5.5 0 0 0-10.6 1.5A3.3 3.3 0 0 0 7 14z","M8 17l-1 3M12 17l-1 3M16 17l-1 3"],"snow":["M7 14h10a4 4 0 0 0 0-8a5.5 5.5 0 0 0-10.6 1.5A3.3 3.3 0 0 0 7 14z","M8 18h.01M12 18h.01M16 18h.01M10 21h.01M14 21h.01"],"storm":["M7 14h10a4 4 0 0 0 0-8a5.5 5.5 0 0 0-10.6 1.5A3.3 3.3 0 0 0 7 14z","M12 14l-2 4h4l-2 4"],"fog":["M4 8h16M6 12h12M4 16h16"],"missed":["M5 4h4l2 5-2.5 1.5a11 11 0 0 0 5 5L15 13l5 2v4a2 2 0 0 1-2 2A16 16 0 0 1 3 6a2 2 0 0 1 2-2","M16 3l5 5M21 3l-5 5"],"battery":["M4.5 6h12a2 2 0 0 1 2 2v8a2 2 0 0 1-2 2h-12a2 2 0 0 1-2-2V8a2 2 0 0 1 2-2z","M21.5 10v4","M12 9.5L9.5 12H13l-2.5 3"],"search":["M4 10a6 6 0 1 0 12 0a6 6 0 1 0-12 0","M14.5 14.5L20 20"],"torch":["M7 3h10v3l-3 4v11h-4V10L7 6z","M7 6h10","M12 13v2"],"magnifier":["M3 10a7 7 0 1 0 14 0a7 7 0 1 0-14 0","M15 15l6 6","M10 7v6M7 10h6"],"pin":["M12 21s-7-6.2-7-11a7 7 0 0 1 14 0c0 4.8-7 11-7 11z","M9.5 10a2.5 2.5 0 1 0 5 0a2.5 2.5 0 1 0-5 0"],"news":["M4 5h13v14H6a2 2 0 0 1-2-2z","M17 9h3v8a2 2 0 0 1-2 2","M7 8h7M7 11h7M7 14h4"],"callme":["M5 4h4l2 5-2.5 1.5a11 11 0 0 0 5 5L15 13l5 2v4a2 2 0 0 1-2 2A16 16 0 0 1 3 6a2 2 0 0 1 2-2","M21 3l-6 6","M15 4v5h5"],"check":["M3 12a9 9 0 1 0 18 0a9 9 0 1 0-18 0","M8 12.5l2.5 2.5 5.5-6"],"clock":["M3 12a9 9 0 1 0 18 0a9 9 0 1 0-18 0","M12 7v5l3 2"],"car":["M6.5 10l1.5-4h8l1.5 4","M5 10h14a2 2 0 0 1 2 2v4a1 1 0 0 1-1 1H4a1 1 0 0 1-1-1v-4a2 2 0 0 1 2-2z","M7 13.5h.01M17 13.5h.01","M5.5 17v2M18.5 17v2"],"bus":["M6 3h12a2 2 0 0 1 2 2v12H4V5a2 2 0 0 1 2-2z","M4 11h16","M7 17v3M17 17v3","M8 14h.01M16 14h.01"],"key":["M4 16a4 4 0 1 0 8 0a4 4 0 1 0-8 0","M10.8 13.2L20 4","M17 7l2.5 2.5M14.5 9.5l2 2"],"glasses":["M3 13.5a3.5 3.5 0 1 0 7 0a3.5 3.5 0 1 0-7 0","M14 13.5a3.5 3.5 0 1 0 7 0a3.5 3.5 0 1 0-7 0","M10 13a2 2 0 0 1 4 0","M3.5 12L5 6.5M20.5 12L19 6.5"],"paw":["M8.5 16.5c0-2.5 1.6-4.5 3.5-4.5s3.5 2 3.5 4.5c0 2-1.6 3-3.5 3s-3.5-1-3.5-3z","M4.5 11a1.5 1.5 0 1 0 3 0a1.5 1.5 0 1 0-3 0","M8 6.5a1.5 1.5 0 1 0 3 0a1.5 1.5 0 1 0-3 0","M13 6.5a1.5 1.5 0 1 0 3 0a1.5 1.5 0 1 0-3 0","M16.5 11a1.5 1.5 0 1 0 3 0a1.5 1.5 0 1 0-3 0"],"plant":["M7 14h10l-1.5 7h-7z","M12 14V8","M12 10C9 10 7 8 7 5c3 0 5 2 5 5z","M12 8c0-3 2-5 5-5 0 3-2 5-5 5z"],"tooth":["M7 3C4.5 3 3 5 3 7.5c0 3 1.5 4.5 2 7l1 5c.3 1.3 2 1.3 2.3 0l1.2-4.5c.3-1 2.7-1 3 0l1.2 4.5c.3 1.3 2 1.3 2.3 0l1-5c.5-2.5 2-4 2-7C21 5 19.5 3 17 3c-2 0-3 1-5 1S9 3 7 3z"],"cake":["M5 21v-7a1 1 0 0 1 1-1h12a1 1 0 0 1 1 1v7","M3 21h18","M12 13V9","M12 6.5c-.8-.8-.8-2 0-3 .8 1 .8 2.2 0 3z","M5 16.5c1.2 0 1.2 1 2.3 1s1.2-1 2.3-1 1.2 1 2.4 1 1.2-1 2.3-1 1.2 1 2.3 1 1.2-1 2.4-1"],"trash":["M4 7h16","M9 7V4h6v3","M6 7l1 13h10l1-13","M10 11v6M14 11v6"],"wallet":["M4 7a2 2 0 0 1 2-2h11v4","M4 7v11a2 2 0 0 0 2 2h14V9H6a2 2 0 0 1-2-2z","M16 14.5h.01"],"book":["M12 6.5C10 5 7 4.5 3 5v14c4-.5 7 0 9 1.5 2-1.5 5-2 9-1.5V5c-4-.5-7 0-9 1.5z","M12 6.5v14"],"tv":["M5 7h14a2 2 0 0 1 2 2v9a2 2 0 0 1-2 2H5a2 2 0 0 1-2-2V9a2 2 0 0 1 2-2z","M8 3l4 4 4-4"],"mail":["M5 5h14a2 2 0 0 1 2 2v10a2 2 0 0 1-2 2H5a2 2 0 0 1-2-2V7a2 2 0 0 1 2-2z","M3.5 7l8.5 6 8.5-6"],"thermometer":["M10 14.5V5a2 2 0 0 1 4 0v9.5a4 4 0 1 1-4 0z","M12 9v8"],"syringe":["M16 5l3 3-9 9-3-3z","M14 3l7 7","M8.5 15.5L3 21","M12.5 9.5l2 2"],"family":["M5 8.5a3 3 0 1 0 6 0a3 3 0 1 0-6 0","M2.5 20a5.5 5.5 0 0 1 11 0","M14 9.5a2.5 2.5 0 1 0 5 0a2.5 2.5 0 1 0-5 0","M15 14.7a4.5 4.5 0 0 1 6.5 4v1.3"],"moon":["M20 14.5A8 8 0 1 1 9.5 4a6.5 6.5 0 0 0 10.5 10.5z"],"speaker":["M4 9h3l5-4v14l-5-4H4z","M15.5 9a4 4 0 0 1 0 6","M18 6.5a7.5 7.5 0 0 1 0 11"],"mic":["M9 6a3 3 0 0 1 6 0v5a3 3 0 0 1-6 0z","M5.5 11a6.5 6.5 0 0 0 13 0","M12 17.5V21","M9 21h6"],"folder":["M3 7a2 2 0 0 1 2-2h4l2 2h8a2 2 0 0 1 2 2v8a2 2 0 0 1-2 2H5a2 2 0 0 1-2-2z"],"close":["M6 6l12 12M18 6L6 18"],"backspace":["M8 5h11a2 2 0 0 1 2 2v10a2 2 0 0 1-2 2H8l-6-7z","M11 9l6 6M17 9l-6 6"],"play":["M6 4.5v15L19 12z"],"chevron":["M6 9l6 6 6-6"],"minus":["M5 12h14"],"plus":["M12 5v14M5 12h14"]}; /*SYM-END*/
+  const SYM_PATHS = <?= SYM_JSON ?>;
   // Simboli del telefono (stessi tracciati di Symbols.kt, copiati da tools/symbols/gen.py): l'anteprima e la
   // scelta mostrano esattamente quello che vedrà il telefono.
-  const SYM_UI = new Set(['speaker', 'mic', 'folder', 'close', 'backspace', 'play', 'chevron', 'minus', 'plus', 'check']);
+  const SYM_UI = new Set(<?= SYM_UI_JSON ?>);
   const TYPE_SYM = {call: 'phone', wa_video: 'video', tg_video: 'video', sms: 'message', url: 'web', sos: 'alert', weather: 'weather', photos: 'photo',
     missed_calls: 'missed', search: 'search', messages: 'message', radio: 'radio', torch: 'torch', magnifier: 'magnifier', where: 'pin', call_me: 'callme',
     music: 'music', news: 'news', clock: 'clock'};
@@ -2053,7 +2070,8 @@ document.querySelectorAll('[data-copy]').forEach(b => b.addEventListener('click'
     const check = (k, label, hint) => el('div', {style: 'margin:12px 0'},
       el('label', {style: 'font-weight:600'}, el('input', {type: 'checkbox', checked: !!p[k], onchange: e => set(k, e.target.checked)}), ' ' + label),
       el('div', {class: 'hint'}, hint));
-    const group = (k, ...kids) => el('div', {class: 'phgroup'}, el('h4', {}, T(k)), ...kids);
+    const GRP_SYM = {grp_calls: 'phone', grp_aids: 'heart', grp_home: 'home', grp_battery: 'battery', grp_safety: 'alert', grp_comfort: 'moon', grp_remote: 'web'};
+    const group = (k, ...kids) => el('div', {class: 'phgroup'}, el('h4', {}, sym(GRP_SYM[k] || 'grid'), ' ', T(k)), ...kids);
     box.replaceChildren(
       group('grp_calls',
       check('blockUnknown', T('block_unknown'), T('block_unknown_hint')),
@@ -2106,7 +2124,7 @@ document.querySelectorAll('[data-copy]').forEach(b => b.addEventListener('click'
         check('fallDetection', T('fall'), T('fall_hint')),
         check('heatAlert', T('heat'), T('heat_hint')),
         p.heatAlert ? field(T('heat_from'), select(Object.fromEntries([28, 30, 32, 34, 36].map(n => [n, n + '°'])), String(p.heatThreshold || 32), v => set('heatThreshold', +v))) : '',
-        el('h4', {style: 'margin-top:14px'}, T('zone')),
+        el('h4', {style: 'margin-top:14px'}, sym('pin'), ' ', T('zone')),
         document.getElementById('pubform').dataset.edition === 'completo'
           ? el('div', {},
               el('p', {class: 'hint'}, T('zone_hint')),

diff --git a/tools/symbols/gen.py b/tools/symbols/gen.py
@@ -3,7 +3,7 @@
 Genera dai tracciati di Symbols.kt (sorgente unica):
   - app/src/main/res/drawable/sym_<nome>.xml  (icone delle notifiche, tratto bianco)
   - app/src/main/java/app/semplicephone/ui/SymbolDrawables.kt  (nome -> R.drawable)
-  - il blocco SYM_PATHS nel portale (tools/remote-server/index.php, tra /*SYM-BEGIN*/ e /*SYM-END*/)
+  - la costante SYM_JSON del portale (tools/remote-server/index.php, tra /*SYM-BEGIN*/ e /*SYM-END*/)
 Uso: python3 tools/symbols/gen.py [--check]   (--check: errore se qualcosa non è aggiornato)
 """
 import json, re, sys
@@ -54,7 +54,9 @@ object SymbolDrawables {{
 }}
 '''
     php = PHP.read_text()
-    block = '/*SYM-BEGIN*/ const SYM_PATHS = ' + json.dumps(sym, separators=(',', ':')) + '; /*SYM-END*/'
+    ui = re.findall(r'"([a-z]+)"', re.search(r'private val uiOnly = setOf\((.*?)\)', SRC.read_text()).group(1))
+    block = ("/*SYM-BEGIN*/ const SYM_UI_JSON = '" + json.dumps(ui, separators=(',', ':')) + "'; const SYM_JSON = '"
+             + json.dumps(sym, separators=(',', ':')) + "'; /*SYM-END*/")
     php2 = re.sub(r'/\*SYM-BEGIN\*/.*?/\*SYM-END\*/', lambda m: block, php, flags=re.S)
     if php2 == php and block not in php: sys.exit('marcatori SYM-BEGIN/SYM-END mancanti in index.php')
     files[PHP] = php2
